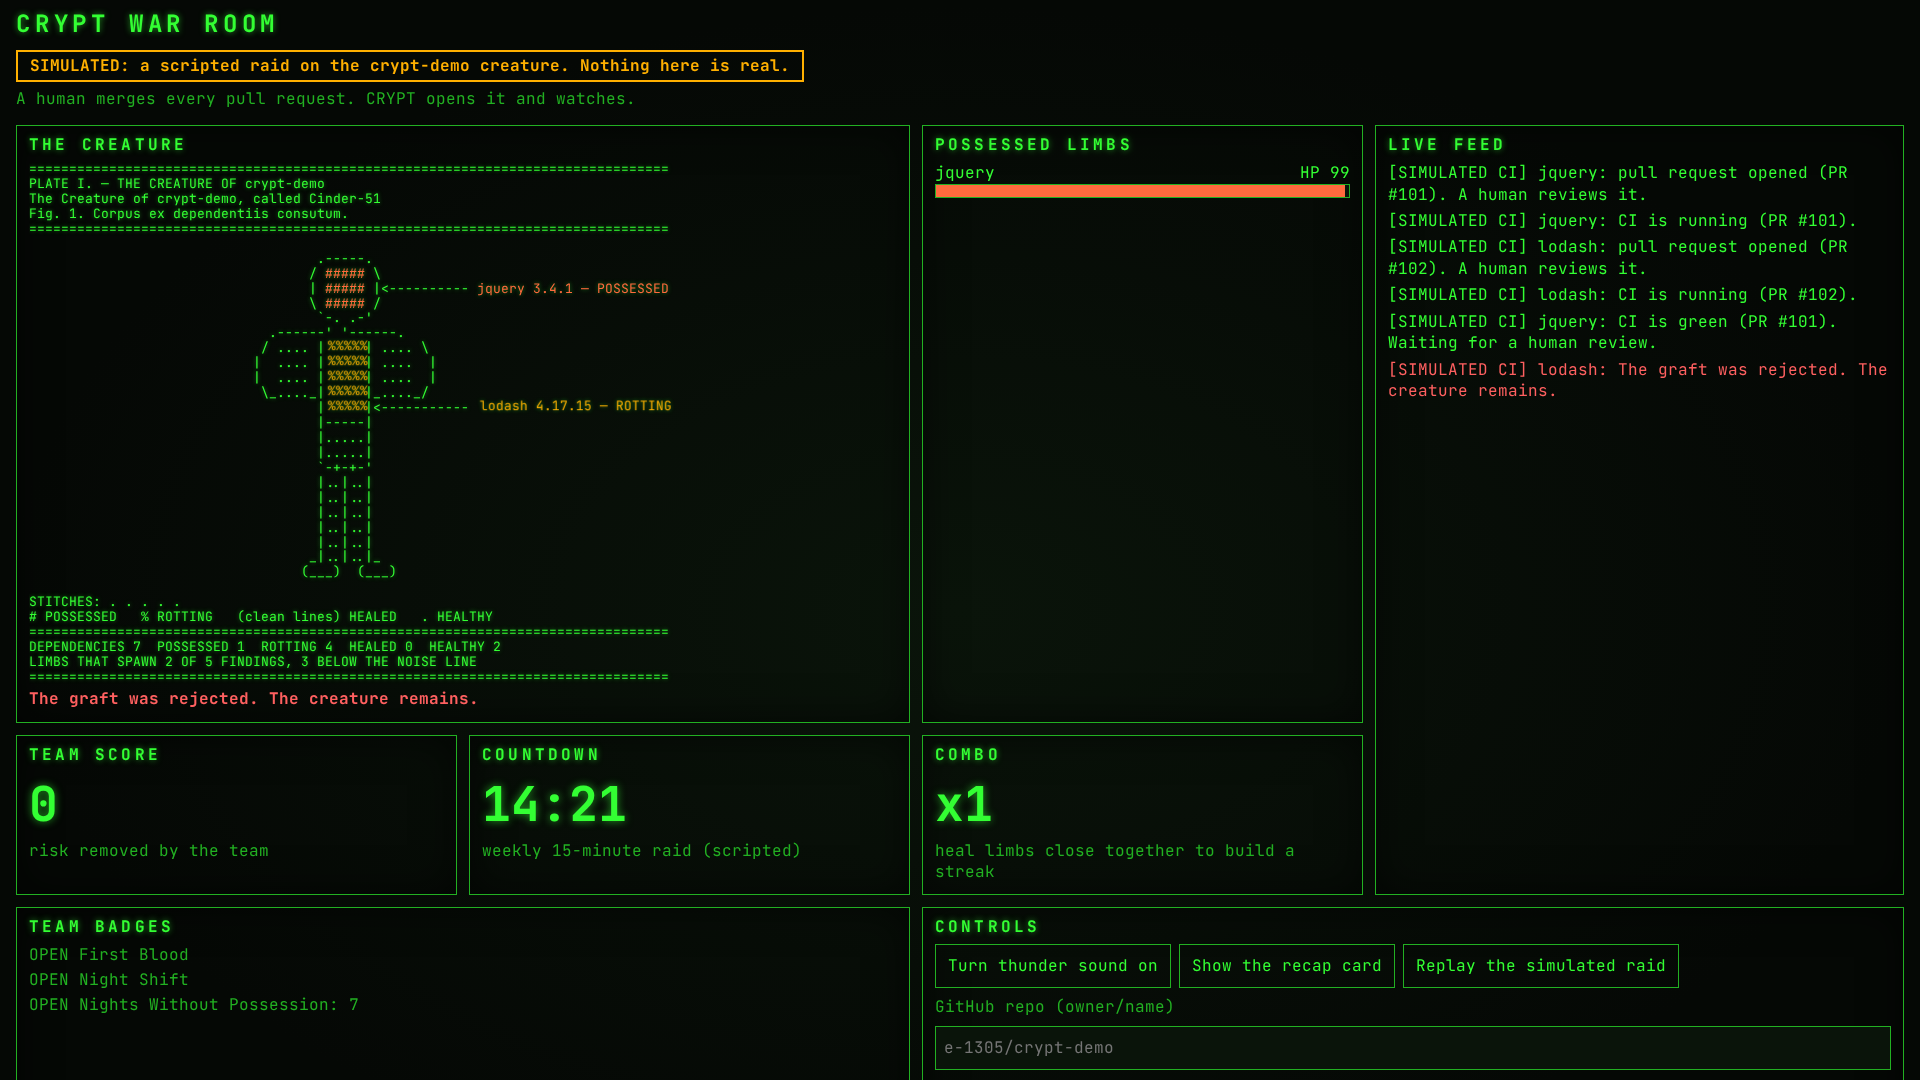
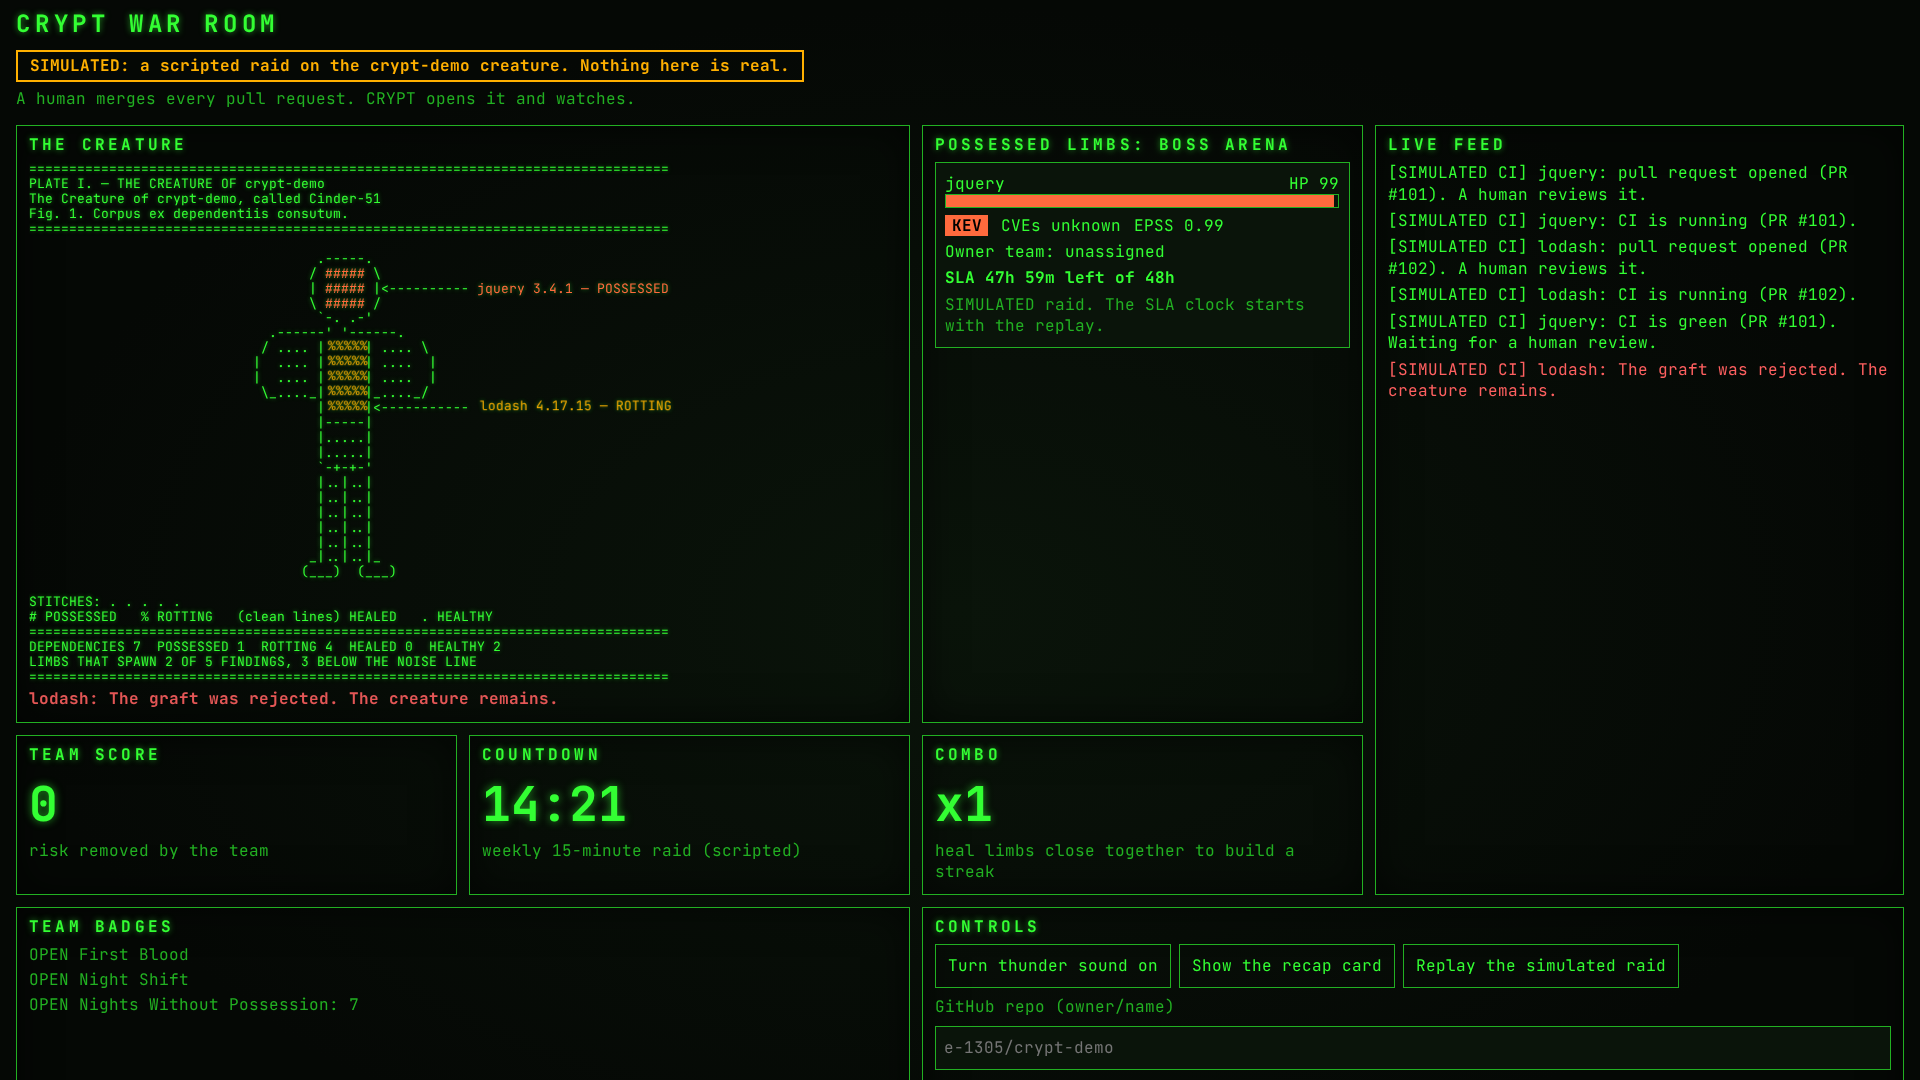
fix: War Room rejection tied to its limb, boss arena cards and empty state (#117)

Changed region(s): [[0.4688, 0.1222, 0.7188, 0.3056], [0.0312, 0.6417, 0.2812, 0.6722]]

diff --git a/src/warroom/state.ts b/src/warroom/state.ts
@@ -3,7 +3,7 @@
 // Team only: nothing is counted or ordered per person. A name exists only inside a "healed by" praise string.
 import { clean } from "../render/plate.js";
 import { REJECTION_LINE, SIMULATED_LABEL } from "../theatre/heal-events.js";
-import { RAID_MS, formatClock, riskOf, teamScore, type RaidLimb } from "../theatre/raid.js";
+import { RAID_MS, SLA_KEV_MS, formatClock, nightsWithoutPossession, riskOf, teamScore, type RaidLimb } from "../theatre/raid.js";
 import { comboState, type ComboState } from "../theatre/gamify.js";
 import { WAR_EVENT_TYPES, parseWarEvent, type WarEvent } from "./events.js";
 
@@ -12,6 +12,10 @@ export type Phase = "possessed" | "rotting" | "pr-open" | "ci-running" | "ci-gre
 /** What the scene needs to know about a limb. `exposure` is a deterministic value, 0..1. */
 export interface WarLimb extends RaidLimb {
   exposure?: unknown;
+  /** Optional scan facts for the boss card. Unknown stays unknown. */
+  cves?: unknown;
+  cveCount?: unknown;
+  ownerTeam?: unknown;
 }
 
 export interface SceneLimb {
@@ -29,6 +33,23 @@ export interface Boss {
   /** 0..1. EPSS times exposure, 0 once healed. */
   hp: number;
   healed: boolean;
+  /** Always true: a boss is a KEV limb. */
+  kev: boolean;
+  epss: number | null;
+  /** Count of CVE ids when the scan data carries them, else null (shown as unknown, never guessed). */
+  cves: number | null;
+  /** Owning team (never a person) when the scan data carries one, else null. */
+  team: string | null;
+  /** Ms left of the 48h SLA, counted from detection (or the raid start). 0 or less means overdue. null once healed. */
+  slaRemainingMs: number | null;
+}
+
+/** A rejection line is tied to the limb whose CI went red. */
+export interface Rejection {
+  limb: string;
+  name: string;
+  line: string;
+  at: number;
 }
 
 export type WarEffect =
@@ -48,6 +69,10 @@ export interface Scene {
   healTimes: number[];
   feed: string[];
   effects: WarEffect[];
+  /** The current rejection, or null. Cleared by the limb's next event or by a heal elsewhere. The feed keeps the history. */
+  rejection: Rejection | null;
+  /** Whole days without a KEV limb open past its 48h SLA. */
+  nights: number;
   simulated: boolean;
 }
 
@@ -105,7 +130,7 @@ function line(ev: WarEvent, name: string): string {
 }
 
 /** Builds the scene. Only Possessed and Rotting limbs take part. Events for other limbs are ignored. */
-export function sceneFrom(events: readonly unknown[] | WarState, limbs: readonly WarLimb[], now: number, opts: { raidStart?: number } = {}): Scene {
+export function sceneFrom(events: readonly unknown[] | WarState, limbs: readonly WarLimb[], now: number, opts: { raidStart?: number; scanStart?: number } = {}): Scene {
   const log = Array.isArray(events) ? reduceAll(events).events : (events as WarState).events;
   const sick = limbs.filter((l) => l.state === "Possessed" || l.state === "Rotting");
   const byKey = new Map<string, { limb: WarLimb; view: SceneLimb; healedAt?: number }>();
@@ -141,12 +166,29 @@ export function sceneFrom(events: readonly unknown[] | WarState, limbs: readonly
   const view = [...byKey.values()];
   const healedSlots = view.filter((s) => s.view.phase === "healed");
   const healTimes = healedSlots.map((s) => s.healedAt as number).sort((a, b) => a - b);
-  const bosses = bossOrder(view.map((s) => s.limb).filter((l) => l.kev === true)).map((l) => {
+  const start = finite(opts.raidStart) ? opts.raidStart : (log[0]?.at ?? now);
+  const bosses: Boss[] = bossOrder(view.map((s) => s.limb).filter((l) => l.kev === true)).map((l) => {
     const key = limbKeyOf(l);
     const healed = byKey.get(key)?.view.phase === "healed";
-    return { key, name: clean(l.name, 40) || "unnamed", hp: healed ? 0 : bossHp(l.epss, l.exposure), healed };
+    const o = l;
+    const cves = Array.isArray(o.cves) ? o.cves.length : finite(o.cveCount) && o.cveCount >= 0 ? Math.floor(o.cveCount) : null;
+    const team = typeof o.ownerTeam === "string" && clean(o.ownerTeam, 40).trim() !== "" ? clean(o.ownerTeam, 40).trim() : null;
+    const since = finite(l.detectedAt) ? l.detectedAt : start;
+    return {
+      key, name: clean(l.name, 40) || "unnamed", hp: healed ? 0 : bossHp(l.epss, l.exposure), healed, kev: true,
+      epss: finite(l.epss) && l.epss >= 0 && l.epss <= 1 ? l.epss : null, cves, team,
+      slaRemainingMs: healed || !finite(now) ? null : SLA_KEV_MS - Math.max(0, now - since),
+    };
   });
-  const start = finite(opts.raidStart) ? opts.raidStart : (log[0]?.at ?? now);
+  // The rejection stays only while its limb is still red (no later event for it) and no limb was healed after it.
+  const red = [...effects].reverse().find((e) => e.kind === "convulse" && byKey.get(e.limb)?.view.phase === "ci-red");
+  const healedAfter = red !== undefined && effects.some((e) => e.kind === "heal" && e.at > red.at);
+  const rejection: Rejection | null = red && red.kind === "convulse" && !healedAfter
+    ? { limb: red.limb, name: byKey.get(red.limb)?.view.name ?? red.limb, line: red.line, at: red.at }
+    : null;
+  const nights = nightsWithoutPossession(
+    view.map((s) => ({ ...s.limb, healed: s.view.phase === "healed" })), now, finite(opts.scanStart) ? opts.scanStart : start,
+  );
   const elapsed = Math.min(RAID_MS, Math.max(0, finite(now) ? now - start : 0));
   return {
     limbs: view.map((s) => s.view).sort((a, b) => cmp(a.key, b.key)),
@@ -159,6 +201,8 @@ export function sceneFrom(events: readonly unknown[] | WarState, limbs: readonly
     healTimes,
     feed: feed.slice(-FEED_MAX),
     effects,
+    rejection,
+    nights,
     simulated,
   };
 }

diff --git a/web/war-room/war-room.js b/web/war-room/war-room.js
@@ -131,28 +131,35 @@ function drawPlate(scene, now) {
   });
 }
 
+function slaText(ms) {
+  if (ms <= 0) return "SLA overdue";
+  const h = Math.floor(ms / 3600000);
+  const m = Math.floor((ms % 3600000) / 60000);
+  return "SLA " + h + "h " + String(m).padStart(2, "0") + "m left of 48h";
+}
+
+function mk(tag, cls, text) {
+  const n = document.createElement(tag);
+  if (cls) n.className = cls;
+  if (text !== undefined) n.textContent = text;
+  return n;
+}
+
 function drawBosses(scene) {
-  const sig = JSON.stringify(scene.bosses.map((b) => [b.key, Math.round(b.hp * 1000), b.healed]));
+  const sig = JSON.stringify([scene.nights, scene.bosses.map((b) => [b.key, Math.round(b.hp * 1000), b.healed, b.slaRemainingMs === null ? null : Math.floor(b.slaRemainingMs / 60000)])]);
   if (!changed("bosses", sig)) return;
   el.bossList.textContent = "";
-  if (scene.bosses.length === 0) {
-    const li = document.createElement("li");
-    li.className = "muted";
-    li.textContent = "No possessed limbs on the slab.";
+  if (!scene.bosses.some((b) => !b.healed)) {
+    const li = mk("li", "arena-empty");
+    li.append(mk("p", "arena-title", "No possession tonight"), mk("p", "nights", String(scene.nights)), mk("p", "muted", "Nights Without Possession"));
     el.bossList.appendChild(li);
-    return;
   }
   for (const b of scene.bosses) {
-    const li = document.createElement("li");
-    const row = document.createElement("div");
-    row.className = "boss-name";
-    const name = document.createElement("span");
-    name.textContent = b.name;
-    const hp = document.createElement("span");
-    hp.textContent = b.healed ? "HEALED" : "HP " + Math.round(b.hp * 100);
-    row.append(name, hp);
-    const bar = document.createElement("div");
-    bar.className = "bar" + (b.healed ? " healed" : "");
+    const li = mk("li", "boss-card" + (b.healed ? " is-healed" : ""));
+    li.dataset.limb = b.key;
+    const row = mk("div", "boss-name");
+    row.append(mk("span", "", b.name), mk("span", "", b.healed ? "HEALED" : "HP " + Math.round(b.hp * 100)));
+    const bar = mk("div", "bar" + (b.healed ? " healed" : ""));
     bar.setAttribute("role", "progressbar");
     bar.setAttribute("aria-label", b.name + " boss HP");
     bar.setAttribute("aria-valuemin", "0");
@@ -161,7 +168,16 @@ function drawBosses(scene) {
     const fill = document.createElement("span");
     fill.style.width = Math.round(b.hp * 100) + "%";
     bar.appendChild(fill);
-    li.append(row, bar);
+    const facts = mk("p", "boss-facts");
+    facts.append(
+      mk("span", "kev-badge", "KEV"),
+      mk("span", "", (b.cves === null ? "CVEs unknown" : b.cves + (b.cves === 1 ? " CVE" : " CVEs"))),
+      mk("span", "", "EPSS " + (b.epss === null ? "unknown" : b.epss.toFixed(2))),
+      mk("span", "", "Owner team: " + (b.team ?? "unassigned")),
+    );
+    const sla = mk("p", "boss-sla" + (!b.healed && b.slaRemainingMs <= 0 ? " overdue" : ""), b.healed ? "SLA met" : slaText(b.slaRemainingMs));
+    li.append(row, bar, facts, sla);
+    if (run.mode === "simulated") li.appendChild(mk("p", "muted boss-sim", "SIMULATED raid. The SLA clock starts with the replay."));
     el.bossList.appendChild(li);
   }
 }
@@ -206,7 +222,7 @@ async function showRecap(scene) {
 
 function render(now) {
   const visible = run.mode === "simulated" ? run.events.filter((e) => e.at <= now) : run.events;
-  const scene = sceneFrom(visible, run.limbs, now, { raidStart: run.t0 });
+  const scene = sceneFrom(visible, run.limbs, now, { raidStart: run.t0, scanStart: run.scanStart });
   run.scene = scene;
   // New effects: thunder and flash once per heal, the rejection line while a limb stays red.
   for (const fx of scene.effects) {
@@ -215,8 +231,10 @@ function render(now) {
     run.seen.add(id);
     if (fx.kind === "heal" && now - fx.at < FRESH_MS) { flash(); thunder(); }
   }
-  const red = scene.limbs.some((l) => l.phase === "ci-red");
-  el.rejection.textContent = red ? scene.effects.find((e) => e.kind === "convulse")?.line ?? "" : "";
+  // Tied to its limb: gone when that limb's next event arrives or another limb heals. The feed keeps the history.
+  const rej = scene.rejection;
+  el.rejection.textContent = rej ? rej.name + ": " + rej.line : "";
+  if (rej) el.rejection.dataset.limb = rej.limb; else delete el.rejection.dataset.limb;
   drawPlate(scene, now);
   drawBosses(scene);
   el.score.textContent = String(Math.round(scene.score * 10) / 10);

diff --git a/tests/warroom.test.ts b/tests/warroom.test.ts
@@ -70,6 +70,30 @@ describe("reduce", () => {
     expect(s.limbs.find((l) => l.key === "npm:lodash")?.phase).toBe("ci-red");
     expect(s.feed[0]).toContain(REJECTION_LINE);
   });
+  it("the rejection is tied to its limb and clears on that limb's next event or a heal elsewhere, the feed keeps it", () => {
+    const red = { type: "ci-red", limb: "npm:lodash", pr: 2, at: 10 };
+    expect(sceneFrom([red], LIMBS, 20).rejection).toEqual({ limb: "npm:lodash", name: "lodash", line: REJECTION_LINE, at: 10 });
+    const next = sceneFrom([red, { type: "ci-running", limb: "npm:lodash", pr: 3, at: 15 }], LIMBS, 20);
+    expect(next.rejection).toBeNull();
+    const healed = sceneFrom([red, { type: "human-merged", limb: "npm:jquery", pr: 1, at: 15 }], LIMBS, 20);
+    expect(healed.rejection).toBeNull();
+    expect(healed.feed.some((f) => f.includes(REJECTION_LINE))).toBe(true);
+    expect(sceneFrom([{ type: "human-merged", limb: "npm:jquery", pr: 1, at: 5 }, red], LIMBS, 20).rejection?.limb).toBe("npm:lodash");
+  });
+  it("boss cards carry KEV, EPSS, a 48h SLA countdown and honest unknowns", () => {
+    const h = 3600_000;
+    const s = sceneFrom([], [{ ...LIMBS[0]!, cveCount: 2, ownerTeam: "platform", detectedAt: 0 }], 10 * h, { raidStart: 0, scanStart: 0 });
+    expect(s.bosses[0]).toMatchObject({ kev: true, epss: 0.9, cves: 2, team: "platform", slaRemainingMs: 38 * h });
+    const bare = sceneFrom([], LIMBS, 0, { raidStart: 0 }).bosses[0]!;
+    expect(bare).toMatchObject({ cves: null, team: null, slaRemainingMs: 48 * h });
+    const done = sceneFrom([{ type: "human-merged", limb: "npm:jquery", at: 1 }], LIMBS, 5).bosses[0]!;
+    expect(done.slaRemainingMs).toBeNull();
+  });
+  it("counts Nights Without Possession for the empty arena", () => {
+    const day = 86400000;
+    expect(sceneFrom([], [LIMBS[1]!], 3 * day, { raidStart: 0, scanStart: 0 }).nights).toBe(3);
+    expect(sceneFrom([], [LIMBS[1]!], 3 * day, { raidStart: 0, scanStart: 0 }).bosses).toEqual([]);
+  });
   it("a human merge heals with thunder, scores the risk and starts a combo", () => {
     const s = sceneFrom([{ type: "human-merged", limb: "npm:jquery", pr: 1, at: 10, healedBy: "Maya" }], LIMBS, 20);
     expect(s.effects[0]).toMatchObject({ kind: "heal", thunder: true });
@@ -109,7 +133,7 @@ describe("boss bars", () => {
   });
   it("a healed boss has 0 HP", () => {
     const s = sceneFrom([{ type: "human-merged", limb: "npm:jquery", at: 1 }], LIMBS, 2);
-    expect(s.bosses).toEqual([{ key: "npm:jquery", name: "jquery", hp: 0, healed: true }]);
+    expect(s.bosses[0]).toMatchObject({ key: "npm:jquery", name: "jquery", hp: 0, healed: true });
   });
 });
 
@@ -139,7 +163,7 @@ describe("blameless", () => {
         if (/Maya|Ola/.test(line)) expect(line).toMatch(/ healed by (Maya|Ola)/);
       }
       expect(s.effects.every((e) => !/Maya|Ola/.test(JSON.stringify(e)))).toBe(true);
-      expect(Object.keys(s).sort()).toEqual(["bosses", "clock", "combo", "effects", "feed", "healTimes", "healedCount", "limbs", "remainingMs", "score", "simulated"]);
+      expect(Object.keys(s).sort()).toEqual(["bosses", "clock", "combo", "effects", "feed", "healTimes", "healedCount", "limbs", "nights", "rejection", "remainingMs", "score", "simulated"]);
     }), { numRuns: runs });
   });
 });

diff --git a/web/war-room/war-room.css b/web/war-room/war-room.css
@@ -35,9 +35,20 @@ label { display: block; color: var(--dim); }
 .flash { position: absolute; inset: 0; background: #dff; opacity: 0; pointer-events: none; }
 .flash.thunder { animation: thunder .8s ease-out 1; }
 @keyframes thunder { 0% { opacity: .85; } 20% { opacity: .1; } 35% { opacity: .6; } 100% { opacity: 0; } }
-.rejection { min-height: 1.4em; color: #ff6060; font-weight: 700; }
+.rejection { min-height: 1.4em; color: #ff6060; font-weight: 700; transition: opacity .6s; }
+.rejection:empty { opacity: 0; }
 .boss-list, .feed, .badges { list-style: none; margin: 0; padding: 0; }
 .boss-list li { margin-bottom: .6rem; }
+.boss-card { border: 1px solid var(--dim); padding: .6rem; background: #0a140a; }
+.boss-card.is-healed { opacity: .7; }
+.boss-facts { display: flex; flex-wrap: wrap; gap: .3rem .8rem; margin: .4rem 0 0; }
+.kev-badge { background: var(--hot); color: #000; font-weight: 700; padding: 0 .4em; }
+.boss-sla { margin: .3rem 0 0; font-weight: 700; }
+.boss-sla.overdue { color: #ff6060; }
+.boss-sim { margin: .3rem 0 0; }
+.arena-empty { text-align: center; padding: 1rem 0; }
+.arena-title { margin: 0; font-weight: 700; }
+.nights { margin: .2rem 0; font-size: 4.5rem; line-height: 1; font-weight: 700; }
 .boss-name { display: flex; justify-content: space-between; gap: .5rem; }
 .bar { height: 14px; border: 1px solid var(--dim); background: #0a140a; }
 .bar > span { display: block; height: 100%; background: var(--hot); transition: width .6s; }
@@ -73,5 +84,5 @@ label { display: block; color: var(--dim); }
 @media (min-width: 1700px) { .plate { font-size: 13px; } .big { font-size: 3rem; } }
 @media (prefers-reduced-motion: reduce) {
   .plate .just-healed, .plate .convulsing, .flash.thunder { animation: none; }
-  .bar > span { transition: none; }
+  .bar > span, .rejection { transition: none; }
 }

diff --git a/tests/warroom-page.test.ts b/tests/warroom-page.test.ts
@@ -29,6 +29,12 @@ describe("war room page", () => {
     for (const id of ["scene", "bosses", "score", "countdown", "combo", "feed", "badges"]) expect(html).toContain(`id="${id}`);
   });
 
+  it("renders boss cards and the empty arena with the nights count, and ties the rejection to its limb", () => {
+    for (const t of ["No possession tonight", "Nights Without Possession", "kev-badge", "boss-sla", "EPSS ", "Owner team:", "SIMULATED raid"]) expect(js).toContain(t);
+    expect(js).toContain("scene.rejection");
+    expect(css).toMatch(/\.nights\s*\{[^}]*font-size:\s*4/);
+  });
+
   it("keeps the token in a password field and in memory only", () => {
     expect(html).toMatch(/id="token-input"[^>]*type="password"[^>]*autocomplete="off"/);
     expect(html).toMatch(/<label for="token-input">/);

diff --git a/web/war-room/war-room.html b/web/war-room/war-room.html
@@ -21,7 +21,7 @@
     <p id="rejection" class="rejection" role="status"></p>
   </section>
   <section id="bosses" class="panel" aria-label="Boss bars">
-    <h2>Possessed limbs</h2>
+    <h2>Possessed limbs: boss arena</h2>
     <ul id="boss-list" class="boss-list"></ul>
   </section>
   <section id="score" class="panel stat" aria-label="Team score">
